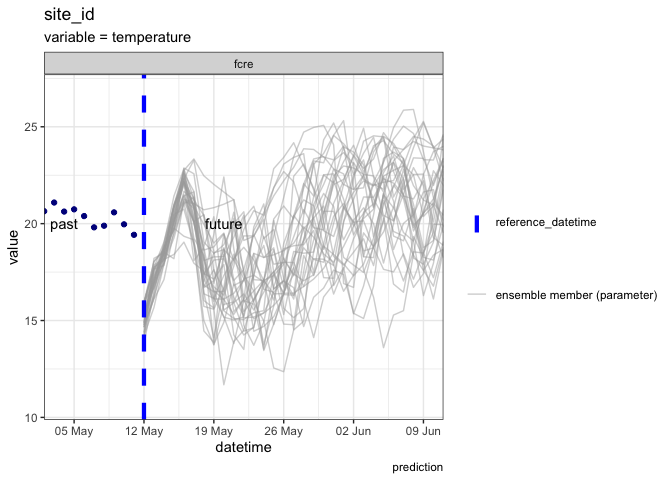
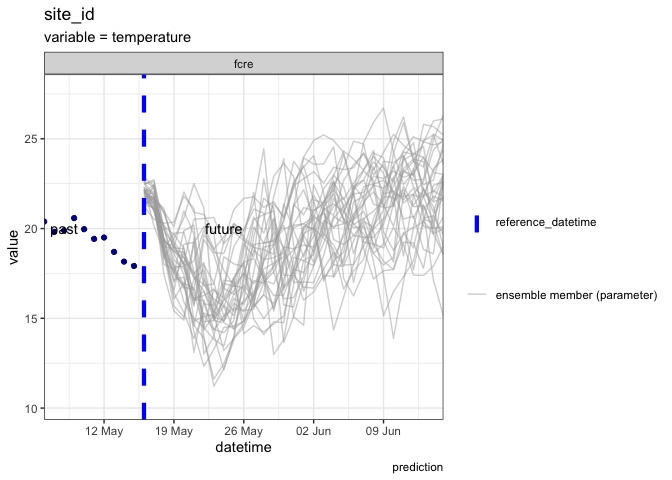
small tweaks to Rmd annotation to be more specific about NOAA weather and how we're defining forecast

diff --git a/tutorial/tutorial.md b/tutorial/tutorial.md
@@ -9,10 +9,10 @@
     -   [3.2 Visualize the data](#visualize-the-data)
 -   [4 Introducing co-variates](#introducing-co-variates)
     -   [4.1 Download co-variates](#download-co-variates)
-        -   [4.1.1 Download historical weather
-            forecasts](#download-historical-weather-forecasts)
-        -   [4.1.2 Download future weather
-            forecasts](#download-future-weather-forecasts)
+        -   [4.1.1 Download historical weather forecasts (stage
+            3)](#download-historical-weather-forecasts-stage-3)
+        -   [4.1.2 Download future weather forecasts (stage
+            2)](#download-future-weather-forecasts-stage-2)
 -   [5 Linear model with co-variates](#linear-model-with-co-variates)
     -   [5.1 Convert to forecast standard for
         submission](#convert-to-forecast-standard-for-submission)
@@ -28,8 +28,8 @@ ecological forecasts, specifically for submission to the Virginia
 Ecoforecast Reservoir Analysis (VERA) Forecast Challenge. The materials
 are modified from those initially developed for the EFI-NEON Forecast
 Challenge (found [here](https://zenodo.org/records/8316966)). To learn
-more about the VERA Forecast Challenge (see our
-[website](https://www.ltreb-reservoirs.org/vera4cast/)).
+more about the VERA Forecast Challenge, see our
+[website](https://www.ltreb-reservoirs.org/vera4cast/).
 
 The development of these materials has been supported by NSF grants
 DEB-2327030, DEB-1926388, and DBI-1933016.
@@ -64,8 +64,8 @@ library(tidyverse)
     ## ── Attaching core tidyverse packages ──────────────────────── tidyverse 2.0.0 ──
     ## ✔ dplyr     1.1.4     ✔ readr     2.1.5
     ## ✔ forcats   1.0.0     ✔ stringr   1.5.1
-    ## ✔ ggplot2   3.5.2     ✔ tibble    3.2.1
-    ## ✔ lubridate 1.9.3     ✔ tidyr     1.3.1
+    ## ✔ ggplot2   3.5.1     ✔ tibble    3.2.1
+    ## ✔ lubridate 1.9.4     ✔ tidyr     1.3.1
     ## ✔ purrr     1.0.4     
     ## ── Conflicts ────────────────────────────────────────── tidyverse_conflicts() ──
     ## ✖ dplyr::filter() masks stats::filter()
@@ -163,7 +163,7 @@ The file is a csv format with the following columns:
     the parameter values in the parameter column. For an ensemble
     forecast, the `family` column uses the word `ensemble` to designate
     that it is a ensemble forecast and the parameter column is the
-    ensemble member number (1, 2, 3 …). For a distribution forecast, the
+    ensemble member number (1, 2, 3…). For a distribution forecast, the
     `family` describes the type of distribution. For a parametric
     forecast with a normal distribution, the `family` column uses the
     word `normal` to designate a normal distribution and the parameter
@@ -227,7 +227,7 @@ site_list <- readr::read_csv("https://raw.githubusercontent.com/LTREB-reservoirs
 
 Let’s take a look at the targets data!
 
-    ## Rows: 159,664
+    ## Rows: 159,930
     ## Columns: 7
     ## $ project_id  <chr> "vera4cast", "vera4cast", "vera4cast", "vera4cast", "vera4…
     ## $ site_id     <chr> "fcre", "fcre", "fcre", "fcre", "fcre", "fcre", "fcre", "f…
@@ -238,9 +238,9 @@ Let’s take a look at the targets data!
     ## $ observation <dbl> NA, NA, NA, NA, NA, NA, NA, NA, NA, NA, NA, NA, NA, NA, NA…
 
 The columns of the targets file show the time step (duration, P1D), the
-4 character site code (`site_id`), the variable being measured, and the
-mean daily observation. We will start by just looking at Falling Creek
-Reservoir (`fcre`).
+four character site code (`site_id`), the variable being measured, and
+the mean daily observation. We will start by just looking at Falling
+Creek Reservoir (`fcre`).
 
 ``` r
 site_list <- site_list %>%
@@ -310,14 +310,14 @@ alt="Figure: Temperature targets data at FCR" />
 FCR</figcaption>
 </figure>
 
-We can think about what type of models might be useful to predict water
+We can think about which type of models might be useful to predict water
 temperature. Below are descriptions of three simple models to get you
 started forecasting:
 
 -   We could use information about current conditions to predict the
     next day. What is happening today is usually a good predictor of
     what will happen tomorrow (persistence model).
--   We could also think about what the historical data tells us about
+-   We could also think about what the historical data tell us about
     reservoir dynamics this time of year. For example, conditions in
     January this year are likely to be similar to January last year
     (climatology/day-of-year model)
@@ -326,7 +326,7 @@ started forecasting:
     weather to generate forecasts about the reservoir variables.
 
 To start, we will produce forecasts for just one of these depths - the
-focal depth at fcre, 1.6 m.
+focal surface layer monitoring depth at fcre, 1.6 m.
 
 ``` r
 targets <- targets %>%
@@ -336,38 +336,40 @@ targets <- targets %>%
 # 4 Introducing co-variates
 
 One important step to overcome when thinking about generating forecasts
-is to include co-variates in the model. A water temperature forecast,
-for example, may be benefit from information about past and future
-weather. The `vera4castHelpers` package includes functions for
-downloading past and future NOAA weather forecasts for the VERA sites.
-The 3 types of data are as follows:
+is to include co-variates (driver variables) in the model. A water
+temperature forecast, for example, may be benefit from information about
+past and future weather. The `vera4castHelpers` package includes
+functions for downloading past and future NOAA weather forecasts for the
+VERA sites. The 3 types of weather data available are as follows:
 
--   stage_1: raw forecasts - 31 member ensemble forecasts at 3 hr
-    intervals for the first 10 days, and 6 hr intervals for up to 35
-    days at the NEON sites.
+-   stage_1: raw weather forecasts - 31-member ensemble forecasts at
+    3-hr intervals for the first 10 days, and 6-hr intervals for up to
+    35 days at the VERA site.
 -   stage_2: a processed version of Stage 1 in which fluxes are
     standardized to per second rates, fluxes and states are interpolated
-    to 1 hour intervals and variables are renamed to match conventions.
-    We recommend this for obtaining future weather. Future weather
-    forecasts include a 30-member ensemble of equally likely future
-    weather conditions.
--   stage_3: can be viewed as the “historical” weather and is
+    to 1-hour intervals, and variables are renamed to match conventions.
+    We recommend using these data for including forecasted weather as a
+    co-variate in your model. Future weather forecasts include a
+    31-member ensemble of equally likely future weather conditions.
+-   stage_3: can be viewed as the “historical” weather and is a
     combination of day 1 weather forecasts (i.e., when the forecasts are
     most accurate).
 
-This code create a connection to the dataset hosted remotely at an S3
-storage location. To download the data you have to tell the function to
-`collect()` it. These data set can be subsetted and filtered using
-`dplyr` functions prior to download to limit the memory usage.
+This code creates a remote connection to the dataset, which is hosted
+remotely at an S3 storage location in the cloud. To download the data,
+you have to tell the function to `collect()` it. These datasets can be
+subsetted and filtered using `dplyr` functions prior to download to
+limit the memory usage.
 
 ## 4.1 Download co-variates
 
-### 4.1.1 Download historical weather forecasts
+### 4.1.1 Download historical weather forecasts (stage 3)
 
 We will generate a water temperature forecast using `air_temperature` as
-a co-variate. The following code chunk connects to the remote location,
-filters the dataset to the sites and variables of interest and then
-collects into our local environment.
+a co-variate. The following code chunk connects to the remote s3
+location, filters the stage 3 forecasted weather dataset to the sites
+and variables of interest, and then collects the data into our local
+environment.
 
 ``` r
 # past stacked weather
@@ -383,7 +385,7 @@ historical_weather <- historical_weather_s3  |>
 historical_weather
 ```
 
-    ## # A tibble: 1,252,927 × 7
+    ## # A tibble: 1,255,903 × 7
     ##    parameter datetime            variable   prediction family reference_datetime
     ##        <dbl> <dttm>              <chr>           <dbl> <chr>  <lgl>             
     ##  1         0 2020-10-01 00:00:00 air_tempe…       286. ensem… NA                
@@ -396,13 +398,13 @@ historical_weather
     ##  8         7 2020-10-01 00:00:00 air_tempe…       286. ensem… NA                
     ##  9         8 2020-10-01 00:00:00 air_tempe…       286. ensem… NA                
     ## 10         9 2020-10-01 00:00:00 air_tempe…       286. ensem… NA                
-    ## # ℹ 1,252,917 more rows
+    ## # ℹ 1,255,893 more rows
     ## # ℹ 1 more variable: site_id <chr>
 
-This is an hourly stacked ensemble of the one day ahead forecasts. We
+This is an hourly stacked ensemble of the one day-ahead forecasts. We
 can take a mean of these ensembles to get an estimate of mean daily
-historical conditions. For the historical data we do not need the
-individual ensemble members, and will train with the ensemble mean.
+historical conditions. For the historical data, we will calculate the
+ensemble mean and do not need the individual ensemble members.
 
 ``` r
 # aggregate the past to mean values
@@ -414,7 +416,7 @@ historical_weather <- historical_weather |>
 historical_weather
 ```
 
-    ## # A tibble: 1,685 × 4
+    ## # A tibble: 1,689 × 4
     ##    datetime   site_id variable        prediction
     ##    <date>     <chr>   <chr>                <dbl>
     ##  1 2020-10-01 fcre    air_temperature       287.
@@ -427,13 +429,13 @@ historical_weather
     ##  8 2020-10-08 fcre    air_temperature       290.
     ##  9 2020-10-09 fcre    air_temperature       286.
     ## 10 2020-10-10 fcre    air_temperature       287.
-    ## # ℹ 1,675 more rows
+    ## # ℹ 1,679 more rows
 
-### 4.1.2 Download future weather forecasts
+### 4.1.2 Download future weather forecasts (stage 2)
 
-We can then look at the future weather forecasts in the same way but
-using the `noaa_stage2()`. The forecast becomes available from NOAA at
-5am UTC the following day, so we need to use the air temperature
+We can then look at the future weather forecasts (stage 2) in the same
+way but using the `noaa_stage2()`. The forecast becomes available from
+NOAA at 5am UTC the following day, so we need to use the air temperature
 forecast from yesterday (`noaa_date`) to make our real-time water
 quality forecasts.
 
@@ -455,24 +457,23 @@ future_weather
     ## # A tibble: 25,327 × 7
     ##    parameter datetime            variable        prediction family   site_id
     ##        <dbl> <dttm>              <chr>                <dbl> <chr>    <chr>  
-    ##  1         0 2025-05-12 00:00:00 air_temperature       287. ensemble fcre   
-    ##  2         0 2025-05-12 01:00:00 air_temperature       287. ensemble fcre   
-    ##  3         0 2025-05-12 02:00:00 air_temperature       287. ensemble fcre   
-    ##  4         0 2025-05-12 03:00:00 air_temperature       287. ensemble fcre   
-    ##  5         0 2025-05-12 04:00:00 air_temperature       287. ensemble fcre   
-    ##  6         0 2025-05-12 05:00:00 air_temperature       287. ensemble fcre   
-    ##  7         0 2025-05-12 06:00:00 air_temperature       287. ensemble fcre   
-    ##  8         0 2025-05-12 07:00:00 air_temperature       286. ensemble fcre   
-    ##  9         0 2025-05-12 08:00:00 air_temperature       286. ensemble fcre   
-    ## 10         0 2025-05-12 09:00:00 air_temperature       285. ensemble fcre   
+    ##  1         0 2025-05-16 00:00:00 air_temperature       294. ensemble fcre   
+    ##  2         0 2025-05-16 01:00:00 air_temperature       293. ensemble fcre   
+    ##  3         0 2025-05-16 02:00:00 air_temperature       292. ensemble fcre   
+    ##  4         0 2025-05-16 03:00:00 air_temperature       291. ensemble fcre   
+    ##  5         0 2025-05-16 04:00:00 air_temperature       291. ensemble fcre   
+    ##  6         0 2025-05-16 05:00:00 air_temperature       291. ensemble fcre   
+    ##  7         0 2025-05-16 06:00:00 air_temperature       290. ensemble fcre   
+    ##  8         0 2025-05-16 07:00:00 air_temperature       291. ensemble fcre   
+    ##  9         0 2025-05-16 08:00:00 air_temperature       291. ensemble fcre   
+    ## 10         0 2025-05-16 09:00:00 air_temperature       291. ensemble fcre   
     ## # ℹ 25,317 more rows
     ## # ℹ 1 more variable: reference_datetime <dttm>
 
-We can use the individual ensemble member in our model to include driver
-uncertainty in the water temperature forecast. To generate a daily water
-temperature forecast, we will use a daily water temperature to train and
-run our model. This is calculated from the hourly data we have but
-retains the ensemble members as a source of driver uncertainty.
+As above, we calculate a daily mean of the forecasted weather data as
+input into our model. We can also use the individual 31 ensemble members
+of the forecasted NOAA weather data to represent driver data uncertainty
+in our water temperature forecast.
 
 ``` r
 # aggregate the past to mean values
@@ -510,11 +511,11 @@ future_weather <- future_weather |>
 # 5 Linear model with co-variates
 
 We will fit a simple linear model between historical air temperature and
-the water temperature targets data. Using this model we can then use our
+the water temperature targets data for our example. We can then use our
 future forecasts of air temperature (all 31 ensembles from NOAA GEFS) to
-estimate water temperature. The ensemble weather forecast will therefore
-propagate uncertainty into the water temperature forecast and give an
-estimate of driver data uncertainty.
+estimate water temperature with this model. The ensemble weather
+forecast will therefore propagate uncertainty into the water temperature
+forecast and give an estimate of driver data uncertainty.
 
 We will start by joining the historical weather data with the targets to
 aid in fitting the linear model.
@@ -531,12 +532,12 @@ tail(targets_lm)
     ## # A tibble: 6 × 7
     ##   project_id site_id datetime            duration depth_m Temp_C_mean
     ##   <chr>      <chr>   <dttm>              <chr>      <dbl>       <dbl>
-    ## 1 vera4cast  fcre    2025-05-06 00:00:00 P1D          1.6        20.4
-    ## 2 vera4cast  fcre    2025-05-07 00:00:00 P1D          1.6        19.8
-    ## 3 vera4cast  fcre    2025-05-08 00:00:00 P1D          1.6        19.9
-    ## 4 vera4cast  fcre    2025-05-09 00:00:00 P1D          1.6        20.6
-    ## 5 vera4cast  fcre    2025-05-10 00:00:00 P1D          1.6        20.0
-    ## 6 vera4cast  fcre    2025-05-11 00:00:00 P1D          1.6        19.4
+    ## 1 vera4cast  fcre    2025-05-10 00:00:00 P1D          1.6        20.0
+    ## 2 vera4cast  fcre    2025-05-11 00:00:00 P1D          1.6        19.4
+    ## 3 vera4cast  fcre    2025-05-12 00:00:00 P1D          1.6        19.5
+    ## 4 vera4cast  fcre    2025-05-13 00:00:00 P1D          1.6        18.7
+    ## 5 vera4cast  fcre    2025-05-14 00:00:00 P1D          1.6        18.2
+    ## 6 vera4cast  fcre    2025-05-15 00:00:00 P1D          1.6        17.9
     ## # ℹ 1 more variable: air_temperature <dbl>
 
 To fit the linear model, we use the base R `lm()` but there are also
@@ -564,7 +565,7 @@ print(fit)
     ## 
     ## Coefficients:
     ##                (Intercept)  targets_lm$air_temperature  
-    ##                     5.2368                      0.7809
+    ##                     5.2388                      0.7809
 
 ``` r
 coeff <- fit$coefficients
@@ -596,24 +597,27 @@ forecast_df
     ## # A tibble: 961 × 5
     ##    datetime   site_id parameter prediction variable   
     ##    <date>     <chr>       <dbl>      <dbl> <chr>      
-    ##  1 2025-05-12 fcre            0       15.3 Temp_C_mean
-    ##  2 2025-05-12 fcre            1       16.0 Temp_C_mean
-    ##  3 2025-05-12 fcre            2       15.9 Temp_C_mean
-    ##  4 2025-05-12 fcre            3       13.8 Temp_C_mean
-    ##  5 2025-05-12 fcre            4       14.1 Temp_C_mean
-    ##  6 2025-05-12 fcre            5       14.2 Temp_C_mean
-    ##  7 2025-05-12 fcre            6       14.7 Temp_C_mean
-    ##  8 2025-05-12 fcre            7       15.9 Temp_C_mean
-    ##  9 2025-05-12 fcre            8       14.8 Temp_C_mean
-    ## 10 2025-05-12 fcre            9       16.0 Temp_C_mean
+    ##  1 2025-05-16 fcre            0       21.8 Temp_C_mean
+    ##  2 2025-05-16 fcre            1       21.8 Temp_C_mean
+    ##  3 2025-05-16 fcre            2       22.2 Temp_C_mean
+    ##  4 2025-05-16 fcre            3       22.6 Temp_C_mean
+    ##  5 2025-05-16 fcre            4       21.9 Temp_C_mean
+    ##  6 2025-05-16 fcre            5       22.5 Temp_C_mean
+    ##  7 2025-05-16 fcre            6       21.4 Temp_C_mean
+    ##  8 2025-05-16 fcre            7       22.1 Temp_C_mean
+    ##  9 2025-05-16 fcre            8       21.3 Temp_C_mean
+    ## 10 2025-05-16 fcre            9       22.1 Temp_C_mean
     ## # ℹ 951 more rows
 
-We now have 31 possible forecasts of water temperature at each site and
-each day. On this plot each line represents one of the possible
-forecasts and the range of forecasted water temperature is a simple
-quantification of the uncertainty in our forecast.
+We now have 31 future predictions of water temperature at each site and
+each day (derived from the 31 stage 2 weather ensemble members). When
+these predictions are combined together, we now have an ensemble
+forecast that represents driver data uncertainty. On this plot, each
+line represents one of the possible predictions and the range of
+forecasted water temperature is a simple quantification of the
+uncertainty in our forecast.
 
-Looking at the forecasts we produced:
+Looking at the forecast we produced:
 
 ![](tutorial_files/figure-markdown_github/wq-forecast-1.png)
 
@@ -632,7 +636,7 @@ A reminder of the columns needed for an ensemble forecast:
     we don’t need to register!
 
 The columns `project_id`, `depth_m`, and `duration` are also needed. For
-a daily forecast the duration is `P1D`. We produced a water temperature
+a daily forecast, the duration is `P1D`. We produced a water temperature
 forecast at the focal depth only (1.6 m).
 
 ``` r
@@ -681,7 +685,7 @@ if (dir.exists(save_here)) {
 vera4castHelpers::forecast_output_validator(forecast_file = forecast_file)
 ```
 
-    ## Forecasts/2025-05-12-example_ID.csv
+    ## Forecasts/2025-05-16-example_ID.csv
 
     ## ✔ file name is in valid format
     ## ✔ file has model_id column
@@ -710,7 +714,8 @@ Is the linear model a reasonable relationship between air temperature
 and water temperature? Would a non-linear relationship be better? What
 about using yesterday’s air and water temperatures to predict tomorrow?
 Or including additional parameters? There’s a lot of variability in
-water temperatures unexplained by air temperature alone.
+water temperatures unexplained by air temperature alone that provide a
+starting place for future models.
 
 ![](tutorial_files/figure-markdown_github/linear-model-1.png)
 
